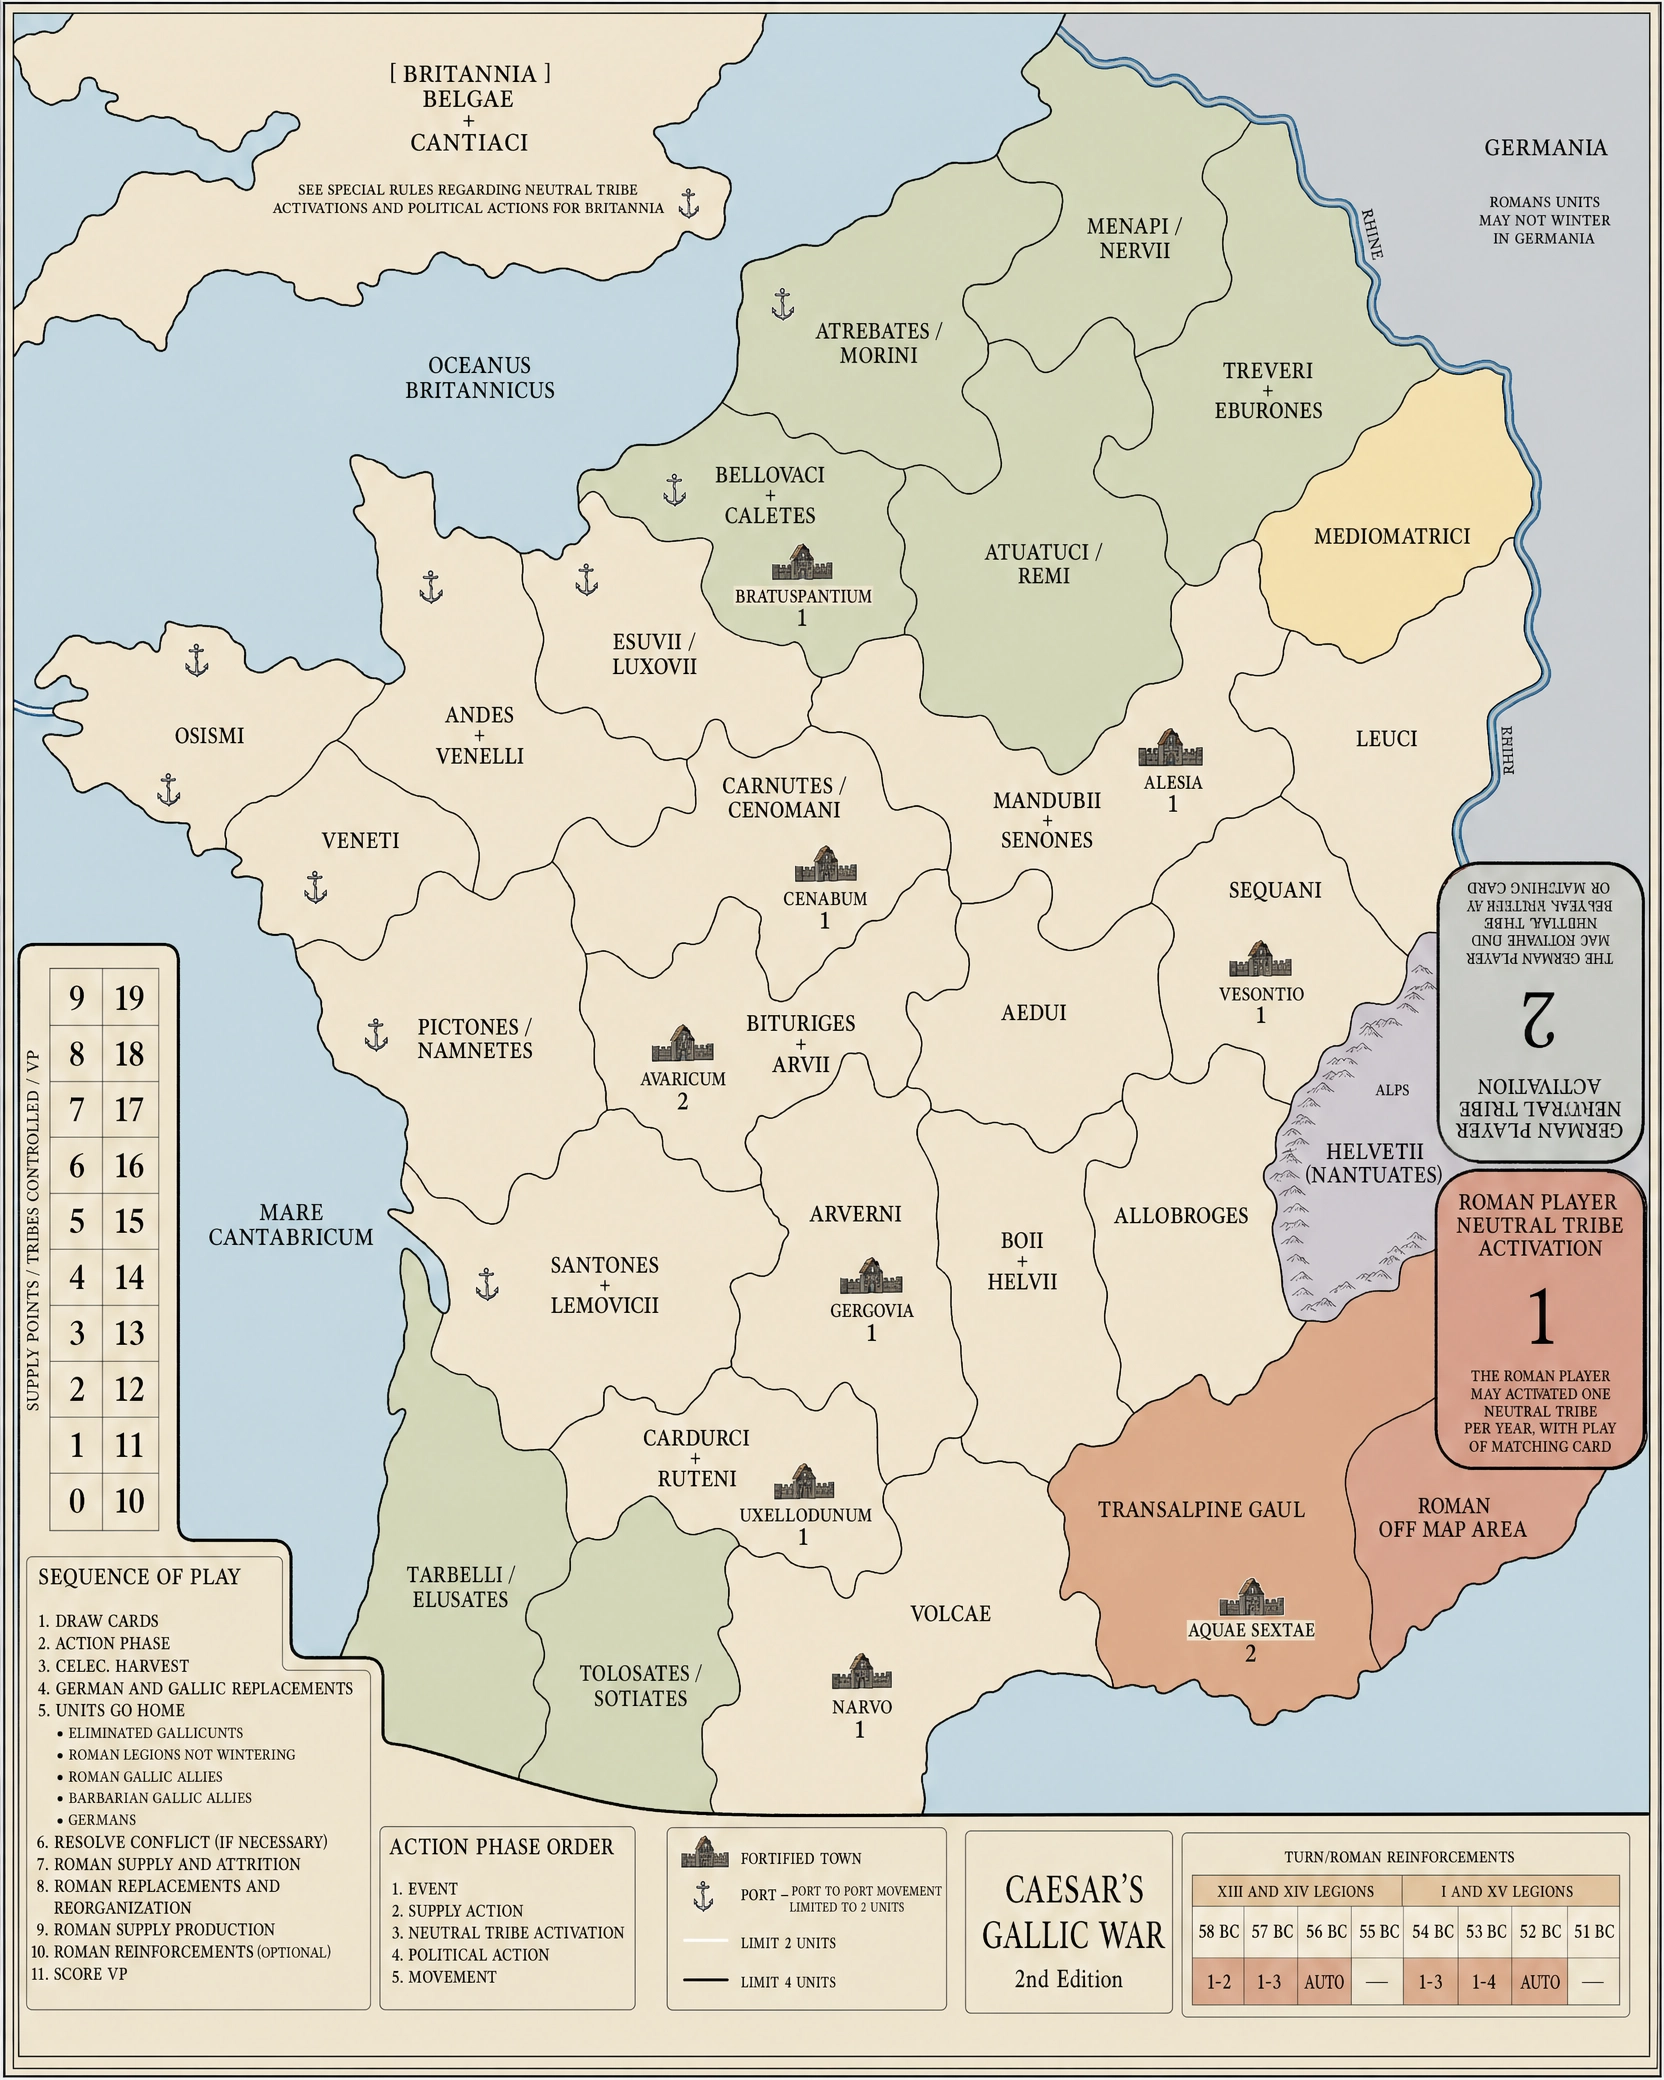
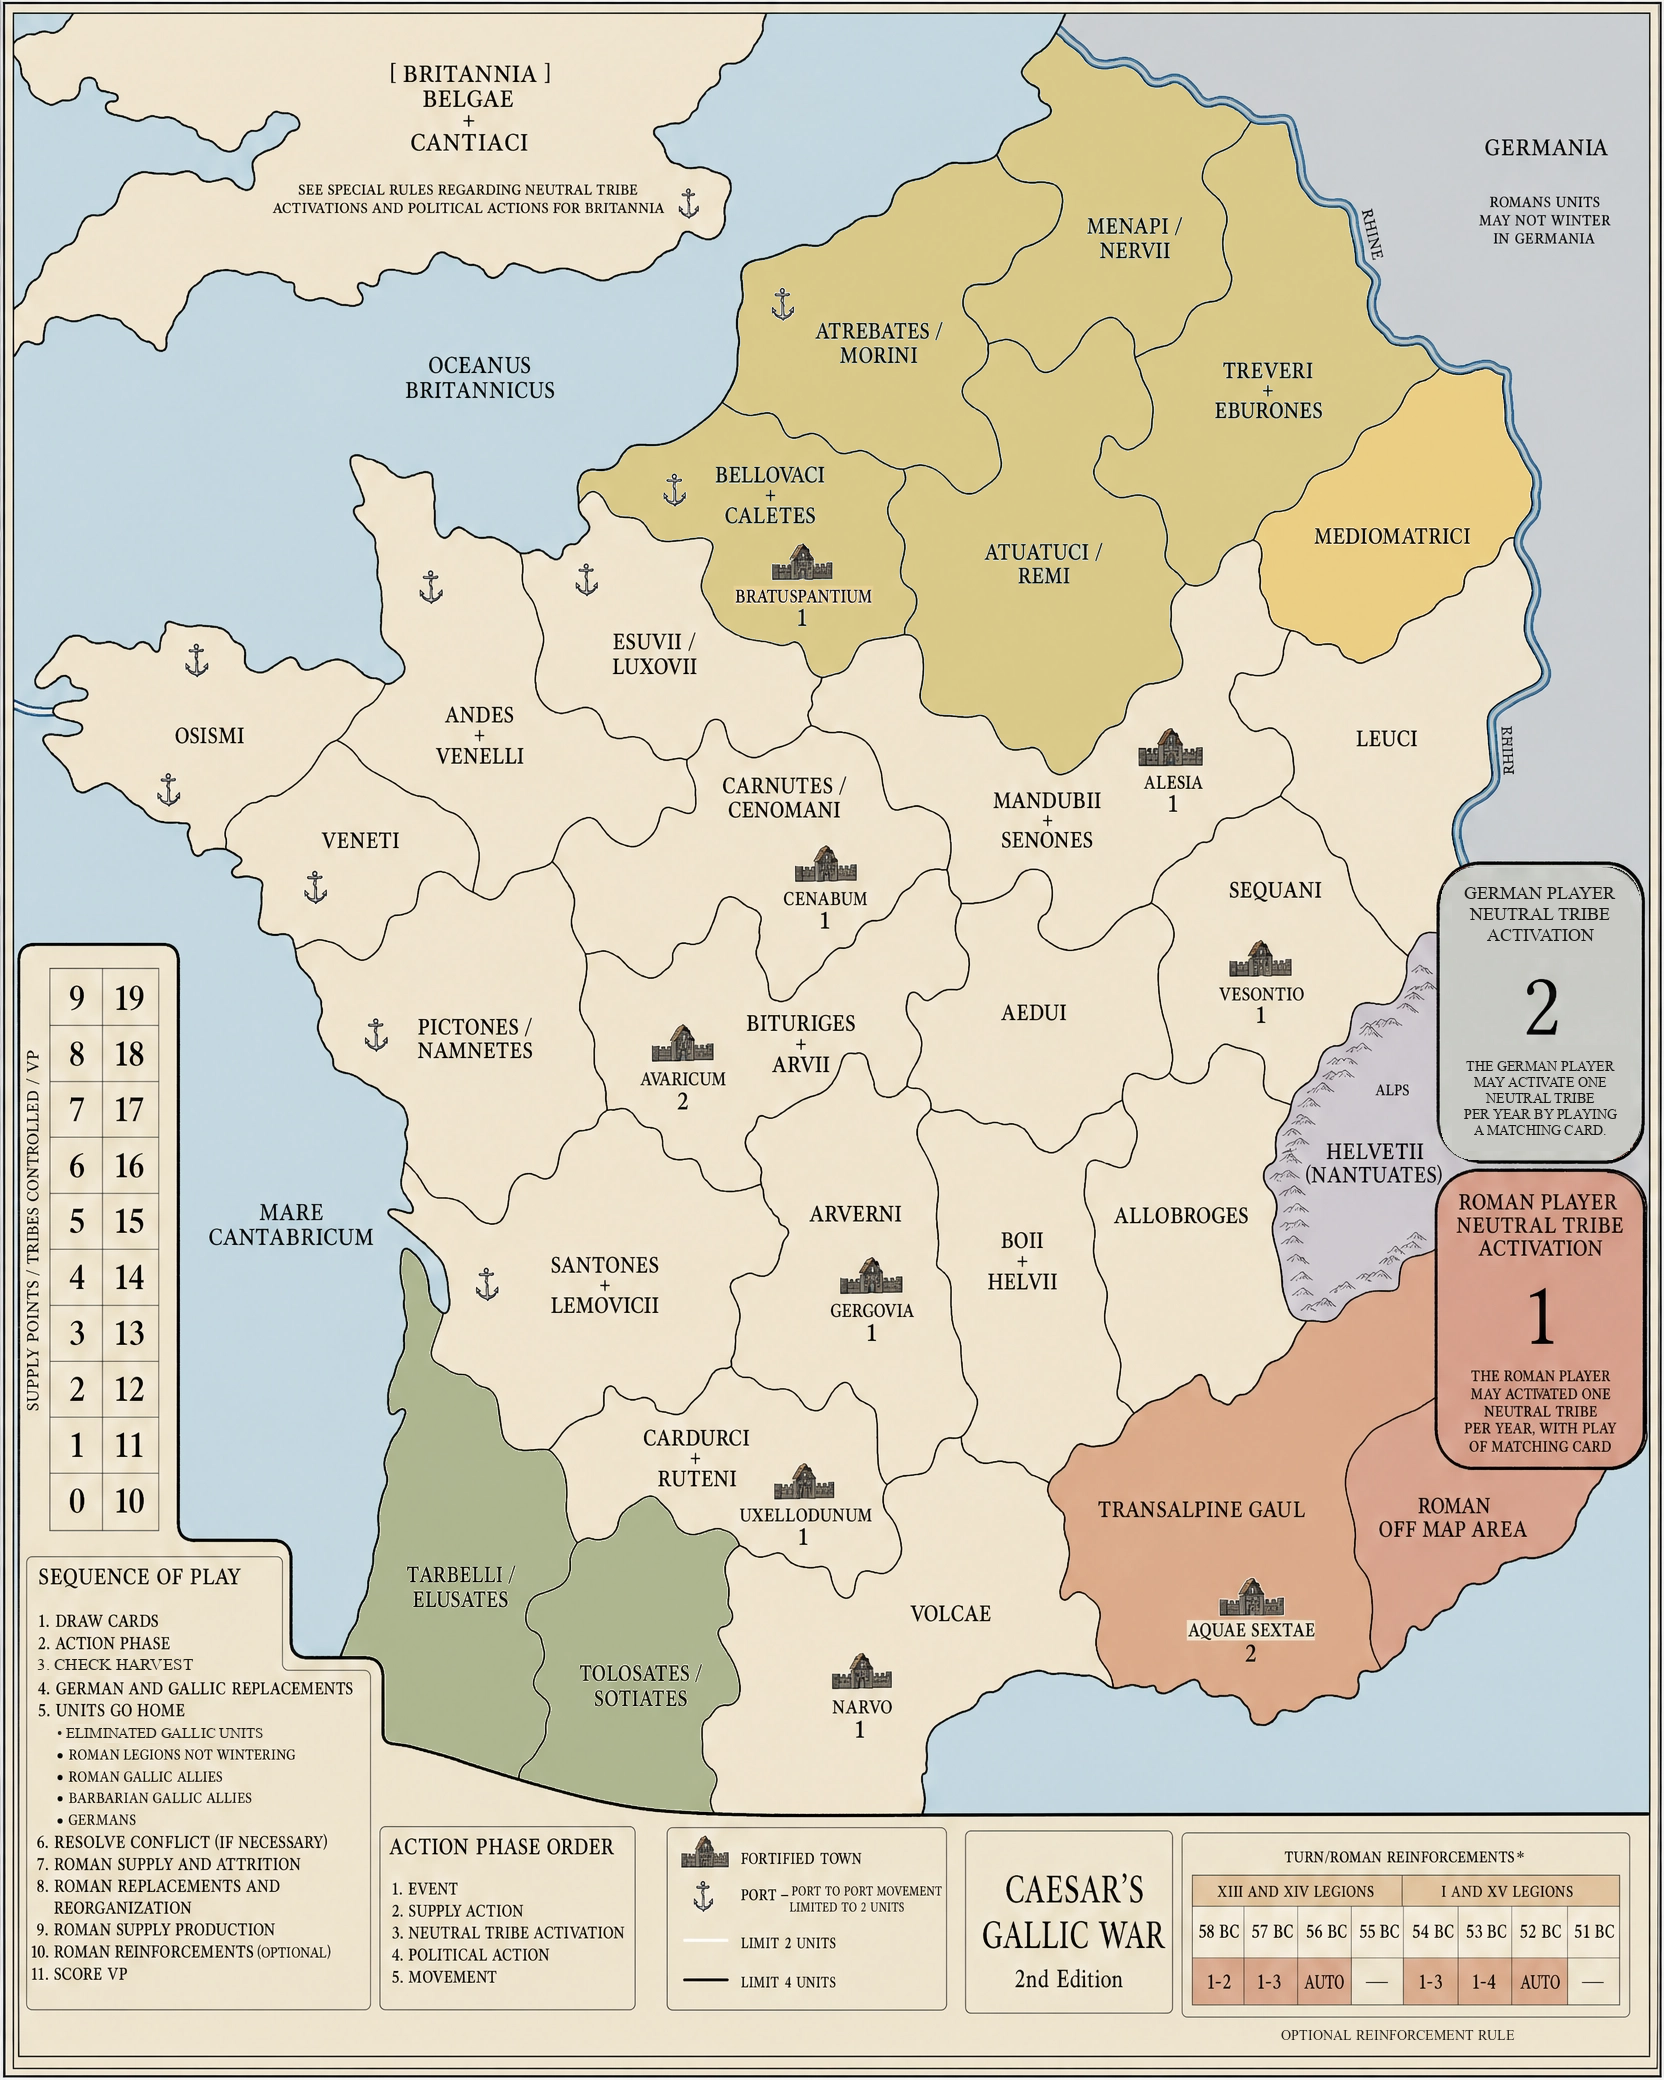
Consolidate atlas map and overlay fixes.

diff --git a/game/app/assets/javascripts/game.js b/game/app/assets/javascripts/game.js
@@ -55,7 +55,7 @@ document.addEventListener("DOMContentLoaded", () => {
     importError: document.querySelector("#import-error"),
     newGameDialog: document.querySelector("#new-game-dialog")
   };
-  const hitMapSize = { width: 880, height: 1020 };
+  const hitMapSize = { width: 832, height: 1040 };
   let areaHitMap = null;
   let dragState = null;
   let suppressNextPieceClick = false;
@@ -1658,14 +1658,14 @@ document.addEventListener("DOMContentLoaded", () => {
   function recordTrackPosition(value) {
     const tracked = Math.max(0, Math.min(Number(value) || 0, 19));
     return {
-      x: tracked >= 10 ? 7.78 : 4.61,
-      y: 74.35 - ((tracked % 10) * 2.75)
+      x: tracked >= 10 ? 7.81 : 4.54,
+      y: 72.19 - ((tracked % 10) * 2.7)
     };
   }
 
   function turnTrackPosition(turn) {
     const tracked = Math.max(0, Math.min(Number(turn) || 0, gameData.years.length - 1));
-    return { x: 73.92 + (tracked * 3.18), y: 95.1 };
+    return { x: 73.19 + (tracked * 3.11), y: 93.55 };
   }
 
   function areaFromMapClick(event) {
@@ -1864,10 +1864,10 @@ document.addEventListener("DOMContentLoaded", () => {
       stack.className = `piece-stack${units.length > 1 ? " has-multiple" : ""}${canSplay ? " can-splay" : ""}${units.some((unit) => state.selectedUnit === unit.id) ? " has-selected" : ""}`;
       stack.style.left = `${area.x}%`;
       stack.style.top = `${area.y}%`;
-      stack.style.setProperty("--compact-width", `${Math.max(64, columns * 18 + 42)}px`);
-      stack.style.setProperty("--compact-height", `${Math.max(64, rows * 22 + 42)}px`);
-      stack.style.setProperty("--splay-width", `${Math.max(84, columns * 76 + 48)}px`);
-      stack.style.setProperty("--splay-height", `${Math.max(84, rows * 76 + 48)}px`);
+      stack.style.setProperty("--compact-width", `${Math.max(58, columns * 16 + 38)}px`);
+      stack.style.setProperty("--compact-height", `${Math.max(58, rows * 20 + 38)}px`);
+      stack.style.setProperty("--splay-width", `${Math.max(78, columns * 68 + 44)}px`);
+      stack.style.setProperty("--splay-height", `${Math.max(78, rows * 68 + 44)}px`);
       const keepStackSplayed = () => {
         const restrictedArea = activeSplayArea();
         if (restrictedArea && restrictedArea !== areaId) return;
@@ -1893,10 +1893,10 @@ document.addEventListener("DOMContentLoaded", () => {
         const row = Math.floor(index / columns);
         const column = index % columns;
         const columnsInRow = Math.min(columns, units.length - row * columns);
-        const compactX = (column - (columnsInRow - 1) / 2) * 18;
-        const compactY = (row - (rows - 1) / 2) * 22;
-        const splayX = (column - (columnsInRow - 1) / 2) * 76;
-        const splayY = (row - (rows - 1) / 2) * 76;
+        const compactX = (column - (columnsInRow - 1) / 2) * 16;
+        const compactY = (row - (rows - 1) / 2) * 20;
+        const splayX = (column - (columnsInRow - 1) / 2) * 68;
+        const splayY = (row - (rows - 1) / 2) * 68;
         const piece = document.createElement("button");
         piece.className = `piece owner-${unit.owner}`;
         const faceVisible = unitFaceVisibleToActivePlayer(unit);
@@ -1935,8 +1935,8 @@ document.addEventListener("DOMContentLoaded", () => {
 
   function renderNeutralActivationCards() {
     els.neutralActivationLayer.innerHTML = "";
-    els.neutralActivationLayer.hidden = battleMapMode();
-    if (els.neutralActivationLayer.hidden) return;
+    els.neutralActivationLayer.hidden = false;
+    els.neutralActivationLayer.classList.toggle("is-passive", battleMapMode());
 
     const slots = [
       { player: "barbarian", label: "German player neutral tribe activation", cards: state.neutralActivationCards.barbarian || [] },

diff --git a/game/app/assets/stylesheets/application.css b/game/app/assets/stylesheets/application.css
@@ -171,7 +171,7 @@ h3 {
   width: min(100%, 980px);
   min-width: 760px;
   height: auto;
-  aspect-ratio: 8800 / 10200;
+  aspect-ratio: 1664 / 2080;
   left: 50%;
   translate: -50% 0;
   pointer-events: none;
@@ -232,23 +232,22 @@ h3 {
 .neutral-activation-slot {
   position: absolute;
   display: block;
-  padding: 1.1%;
   color: var(--text);
   pointer-events: none;
 }
 
 .neutral-activation-slot-barbarian {
-  left: 87.2%;
-  top: 43.4%;
-  width: 10.2%;
-  height: 14.8%;
+  left: 86.18%;
+  top: 41.54%;
+  width: 12.62%;
+  height: 14.42%;
 }
 
 .neutral-activation-slot-roman {
-  left: 87.2%;
-  top: 58.5%;
-  width: 10.2%;
-  height: 13.7%;
+  left: 86.18%;
+  top: 56.15%;
+  width: 12.62%;
+  height: 14.42%;
 }
 
 .neutral-activation-slot > span {
@@ -266,7 +265,7 @@ h3 {
 
 .neutral-activation-card {
   position: absolute;
-  inset: 7% 9%;
+  inset: 2%;
   display: grid;
   align-content: center;
   overflow: hidden;
@@ -275,9 +274,13 @@ h3 {
   border-radius: 4px;
   background: rgba(22, 19, 14, 0.68);
   box-shadow: 0 2px 7px rgba(0, 0, 0, 0.42);
-  translate: calc(var(--stack-index) * 7%) calc(var(--stack-index) * 6%);
+  translate: calc(var(--stack-index) * 2%) calc(var(--stack-index) * 2%);
   transition: translate 120ms ease;
   pointer-events: auto;
+}
+
+.neutral-activation-layer.is-passive .neutral-activation-card {
+  pointer-events: none;
 }
 
 .neutral-activation-slot:hover .neutral-activation-card:first-child:nth-last-child(2) {
@@ -370,7 +373,7 @@ h3 {
   position: absolute;
   top: 50%;
   left: 50%;
-  width: clamp(34px, 4.8vw, 62px);
+  width: clamp(32px, 4.3vw, 56px);
   aspect-ratio: 1;
   padding: 0;
   border: 0;

diff --git a/game/app/models/game_data.rb b/game/app/models/game_data.rb
@@ -1,36 +1,36 @@
 module GameData
   AREA_COORDINATES = {
-    aedui: [64, 51],
-    allobroges: [73, 62],
-    andes: [32, 38],
-    arverni: [55, 62],
-    atrebates: [54, 18],
-    atuatuci: [64, 29],
-    bellovaci: [49, 27],
+    aedui: [62.1, 48.7],
+    allobroges: [71, 58],
+    andes: [29, 35],
+    arverni: [51, 58],
+    atrebates: [52, 16],
+    atuatuci: [62.8, 26.9],
+    bellovaci: [45, 23],
     belgae: [29, 7],
-    bituriges: [49, 52],
-    boii: [64, 63],
-    cadurci: [44, 73],
-    carnutes: [48, 43],
-    esuvii: [40, 34],
-    germania: [89, 10],
-    helvetii: [84, 61],
-    leuci: [84, 38],
-    mandubii: [64, 41],
-    mare_cantrabricum: [16, 61],
-    mediomatrici: [86, 28],
-    menapi: [71, 13],
-    oceanus_britannicus: [31, 19],
-    osismi: [14, 36],
-    pictones: [29, 52],
-    roman_off_map: [88, 77],
-    santones: [38, 63],
-    sequani: [78, 47],
-    tarbelli: [31, 79],
-    tolosates: [41, 85],
-    transalpine_gaul: [74, 78],
-    treveri: [77, 20],
-    veneti: [23, 44],
-    volcae: [57, 84]
+    bituriges: [48.1, 50.3],
+    boii: [61, 61],
+    cadurci: [42, 69],
+    carnutes: [47, 40],
+    esuvii: [39, 32],
+    germania: [91, 9],
+    helvetii: [82.6, 55.9],
+    leuci: [84, 35],
+    mandubii: [62.8, 39.3],
+    mare_cantrabricum: [16, 58],
+    mediomatrici: [84, 25],
+    menapi: [68, 12],
+    oceanus_britannicus: [31, 18],
+    osismi: [12.6, 35.4],
+    pictones: [29, 49],
+    roman_off_map: [87, 73],
+    santones: [36.3, 62],
+    sequani: [76.7, 42.9],
+    tarbelli: [27, 76],
+    tolosates: [38, 82],
+    transalpine_gaul: [71, 74],
+    treveri: [76, 19],
+    veneti: [22, 40],
+    volcae: [57, 78]
   }.freeze
 end

diff --git a/game/app/controllers/board_controller.rb b/game/app/controllers/board_controller.rb
@@ -1,7 +1,7 @@
 class BoardController < ApplicationController
   def index
     @game_data = {
-      map: helpers.asset_path("Map/CGW_Map.jpg"),
+      map: helpers.asset_path("Map/CGW_Map_atlas.png"),
       markers: {
         roman_supply: helpers.asset_path("Blocks/Markers/Roman_Supply.svg"),
         roman_vp_x1: helpers.asset_path("Blocks/Markers/Roman_VP_x1.svg"),
